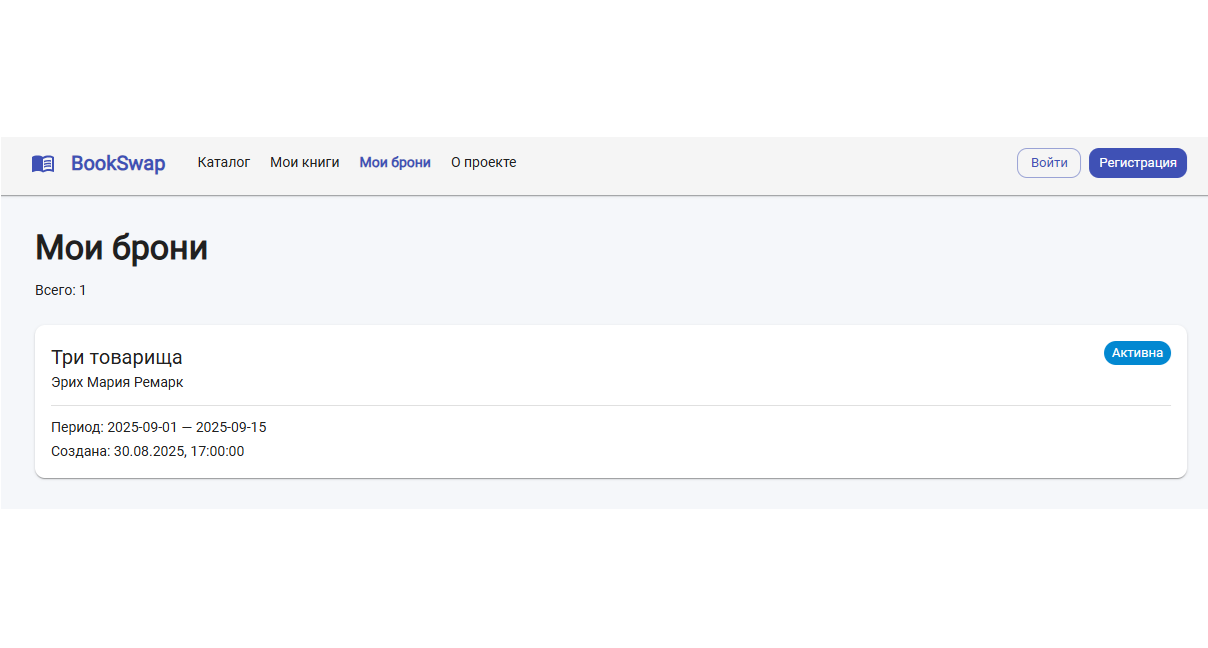
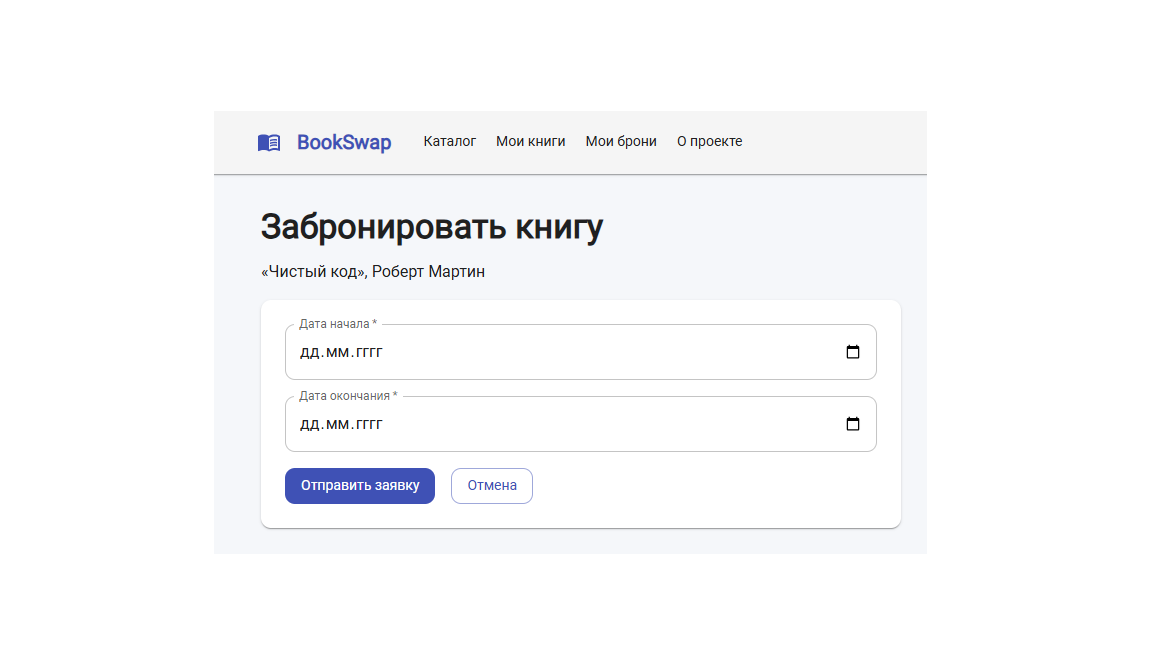
fix(booking): fix date field labels and update screenshot

diff --git a/src/pages/BookingCreatePage.tsx b/src/pages/BookingCreatePage.tsx
@@ -48,7 +48,7 @@ export default function BookingCreatePage() {
               type="date"
               value={startDate}
               onChange={(e) => setStartDate(e.target.value)}
-              InputLabelProps={{ shrink: true }}
+              slotProps={{ inputLabel: { shrink: true } }}
               required
               fullWidth
             />
@@ -57,7 +57,7 @@ export default function BookingCreatePage() {
               type="date"
               value={endDate}
               onChange={(e) => setEndDate(e.target.value)}
-              InputLabelProps={{ shrink: true }}
+              slotProps={{ inputLabel: { shrink: true } }}
               required
               fullWidth
             />
